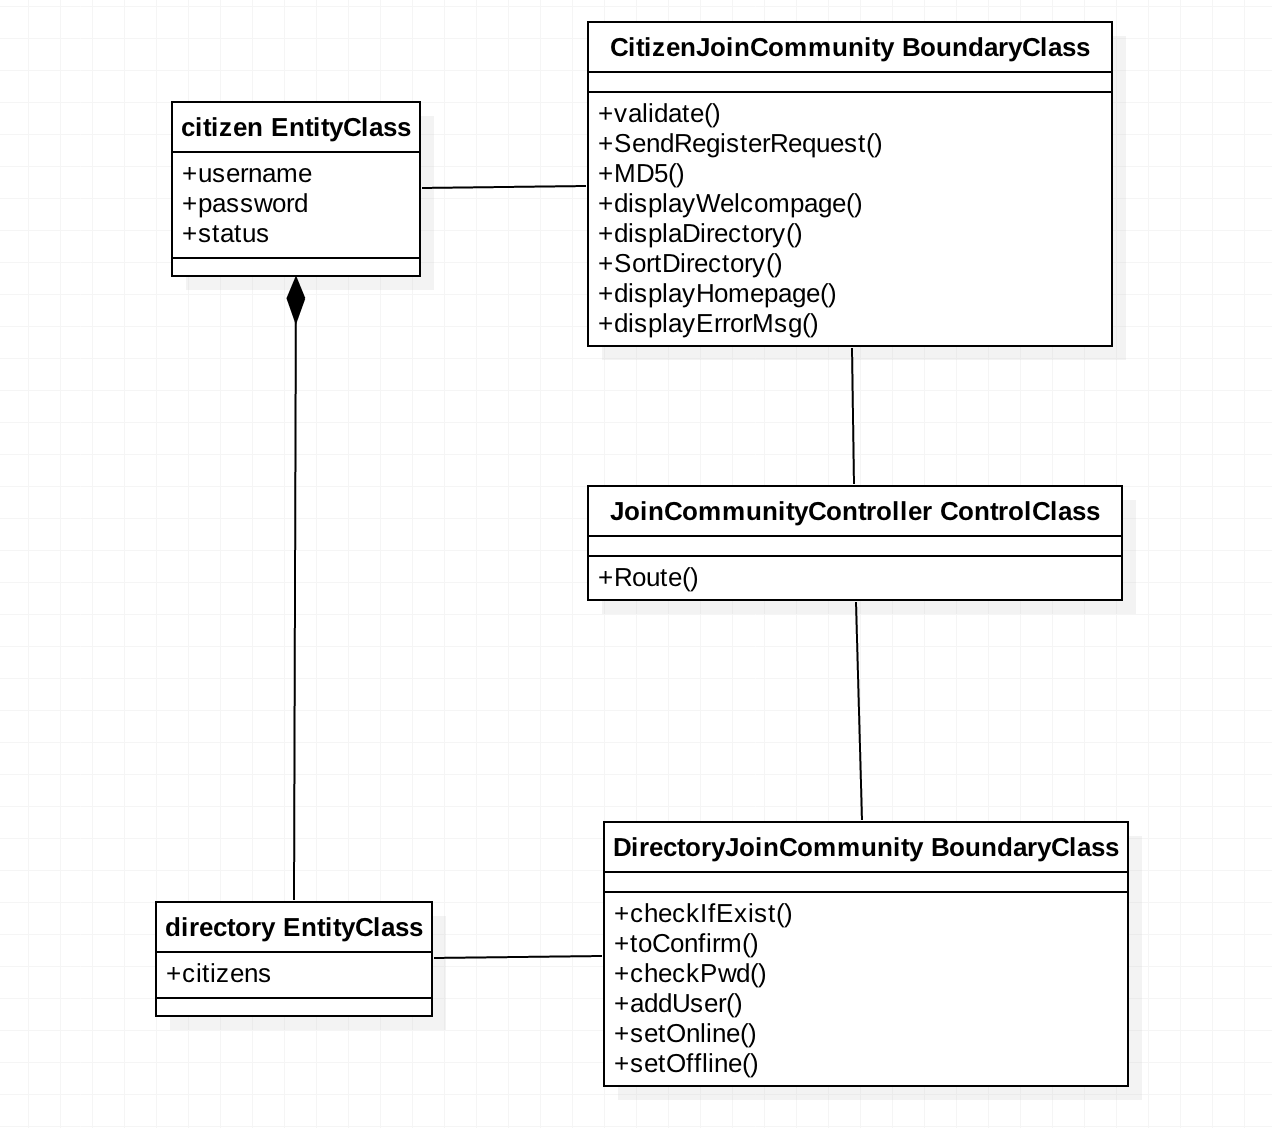
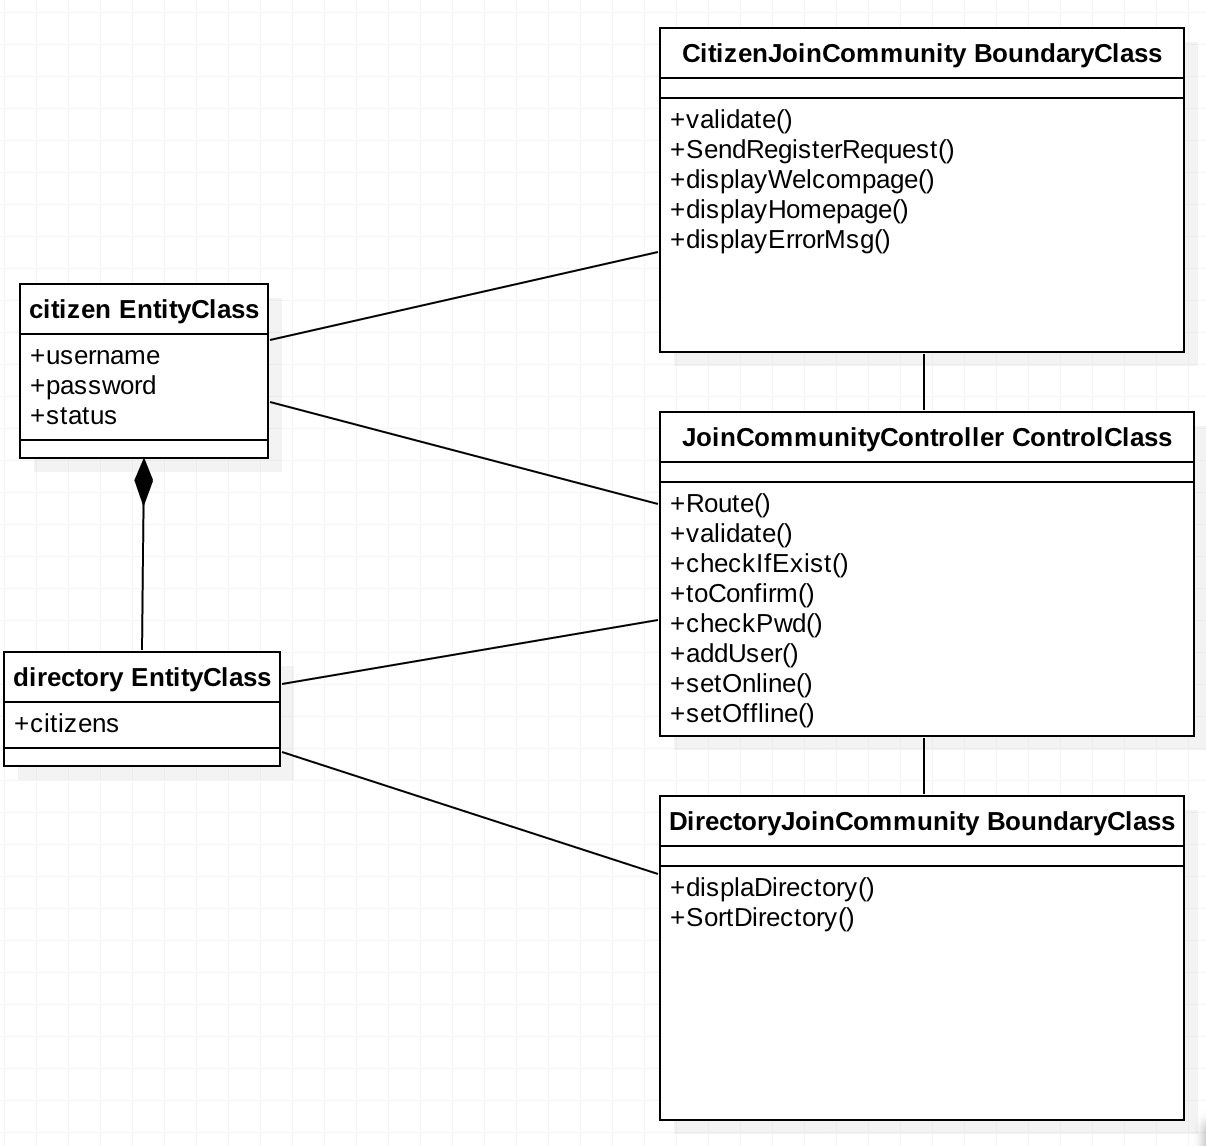
modify classes

diff --git a/doc/iteration1-mid/JoinCommunityAnalysisClasses.md b/doc/iteration1-mid/JoinCommunityAnalysisClasses.md
@@ -1,26 +1,31 @@
 # Analysis Classes for Join Commmunity
 
 ### Entity Class: citizen
+- username
+- password
+- status
 
 ### Boundary Class: CitizenJoinCommunity
 - validate()
 - SendRegisterRequest()
-- MD5()
 - displayWelcomePage()
-- displayDirectory()
 - displayHomePage()
 - displayErrorMsg()
 
 ### ControlClass: JoinCommunityController
 - router()
-
-### Boundary Class:DirectoryJoinCommunity
+- validate()
 - CheckIfExist()
 - toConfirm()
-- checkPWD()
-- addUser()
 - setOnline()
 - setOffline()
+- addUser()
+- checkPWD()
+
+### Boundary Class:DirectoryJoinCommunity
+- displayDirectory()
+- SortDirectory()
 
 ### Entity Class: directory
+- citizens
 
